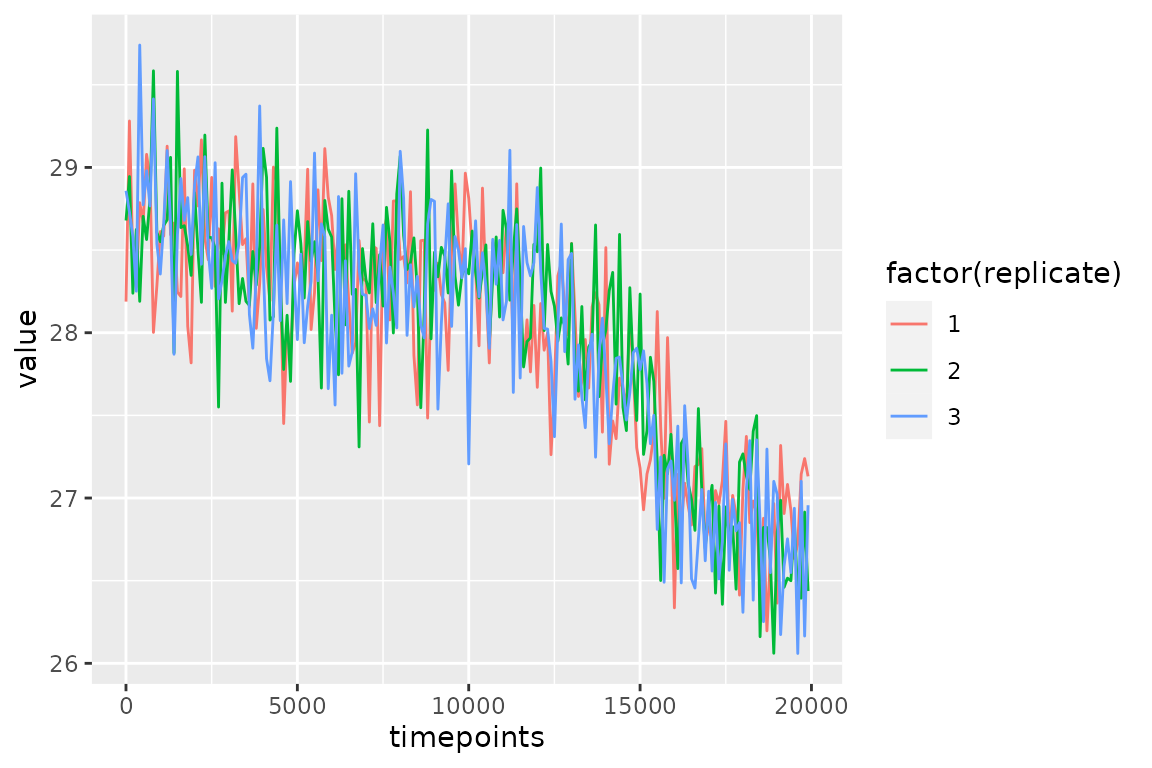
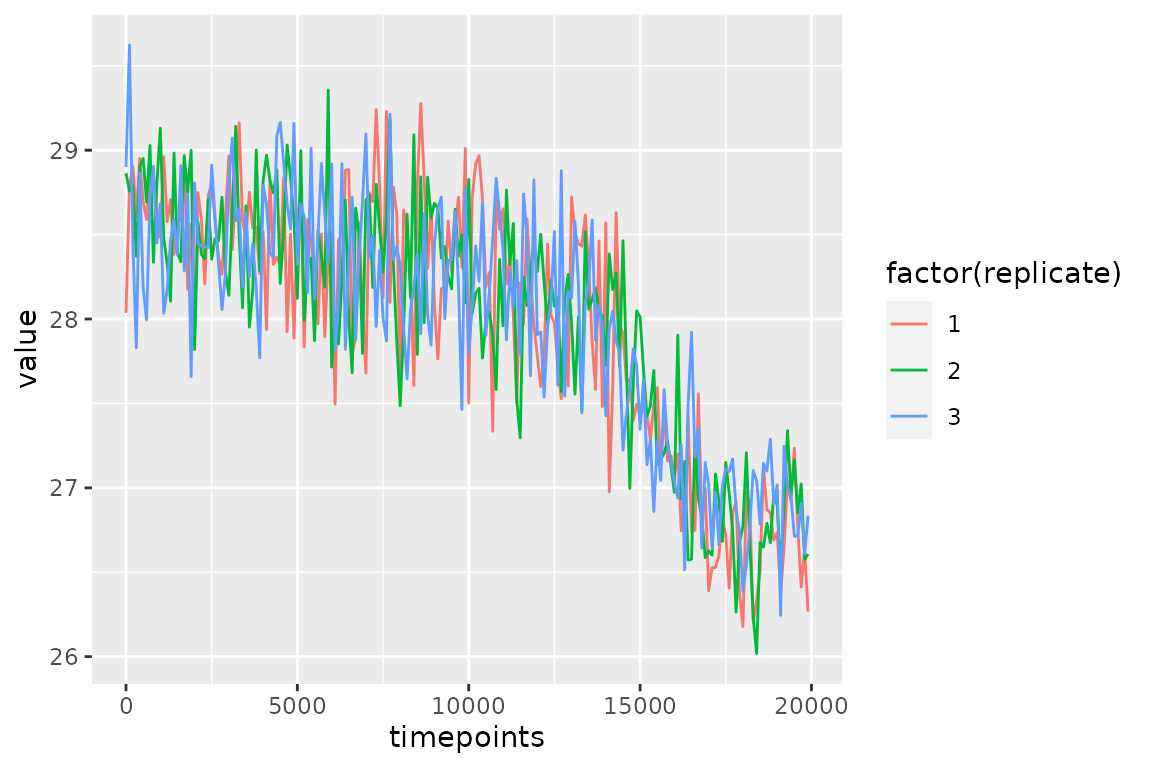
Deploying to gh-pages from @ EarthSystemDiagnostics/sedproxy@fd94164183082faa55e5fa9f2c8a17db658359eb 🚀

Changed region(s): [[0.0312, 0.0625, 0.7188, 0.8438], [0.0312, 0.8438, 0.0938, 0.875], [0.0312, 0.625, 0.0938, 0.6562]]

diff --git a/articles/introduction-to-sedproxy.html b/articles/introduction-to-sedproxy.html
@@ -196,9 +196,9 @@
 <span class="co">##    timepoints n.samples replicate stage             value scale       label     </span>
 <span class="co">##         <span style="color: #949494; font-style: italic;">&lt;dbl&gt;</span>     <span style="color: #949494; font-style: italic;">&lt;dbl&gt;</span>     <span style="color: #949494; font-style: italic;">&lt;dbl&gt;</span> <span style="color: #949494; font-style: italic;">&lt;chr&gt;</span>             <span style="color: #949494; font-style: italic;">&lt;dbl&gt;</span> <span style="color: #949494; font-style: italic;">&lt;chr&gt;</span>       <span style="color: #949494; font-style: italic;">&lt;chr&gt;</span>     </span>
 <span class="co">## <span style="color: #BCBCBC;"> 1</span>          1        30         1 proxy.bt.sb.sampY  28.7 Proxy units (4) +Alia…</span>
-<span class="co">## <span style="color: #BCBCBC;"> 2</span>        101        30         1 proxy.bt.sb.sampY  28.8 Proxy units (4) +Alia…</span>
-<span class="co">## <span style="color: #BCBCBC;"> 3</span>        201        30         1 proxy.bt.sb.sampY  28.7 Proxy units (4) +Alia…</span>
-<span class="co">## <span style="color: #BCBCBC;"> 4</span>        301        30         1 proxy.bt.sb.sampY  28.6 Proxy units (4) +Alia…</span>
+<span class="co">## <span style="color: #BCBCBC;"> 2</span>        101        30         1 proxy.bt.sb.sampY  28.7 Proxy units (4) +Alia…</span>
+<span class="co">## <span style="color: #BCBCBC;"> 3</span>        201        30         1 proxy.bt.sb.sampY  28.8 Proxy units (4) +Alia…</span>
+<span class="co">## <span style="color: #BCBCBC;"> 4</span>        301        30         1 proxy.bt.sb.sampY  28.7 Proxy units (4) +Alia…</span>
 <span class="co">## <span style="color: #BCBCBC;"> 5</span>        401        30         1 proxy.bt.sb.sampY  28.7 Proxy units (4) +Alia…</span>
 <span class="co">## <span style="color: #BCBCBC;"> 6</span>        501        30         1 proxy.bt.sb.sampY  28.7 Proxy units (4) +Alia…</span>
 <span class="co">## <span style="color: #BCBCBC;"> 7</span>        601        30         1 proxy.bt.sb.sampY  28.7 Proxy units (4) +Alia…</span>
@@ -349,22 +349,22 @@
 <tr class="odd">
 <td align="left">simulated.proxy</td>
 <td align="left">5 forams</td>
-<td align="right">1.0473754</td>
+<td align="right">1.0487148</td>
 </tr>
 <tr class="even">
 <td align="left">simulated.proxy</td>
 <td align="left">30 forams</td>
-<td align="right">0.4884771</td>
+<td align="right">0.4853951</td>
 </tr>
 <tr class="odd">
 <td align="left">simulated.proxy</td>
 <td align="left">120 forams</td>
-<td align="right">0.3308434</td>
+<td align="right">0.3323858</td>
 </tr>
 <tr class="even">
 <td align="left">simulated.proxy</td>
 <td align="left">10x12 forams</td>
-<td align="right">0.2223031</td>
+<td align="right">0.2221315</td>
 </tr>
 </tbody>
 </table>
